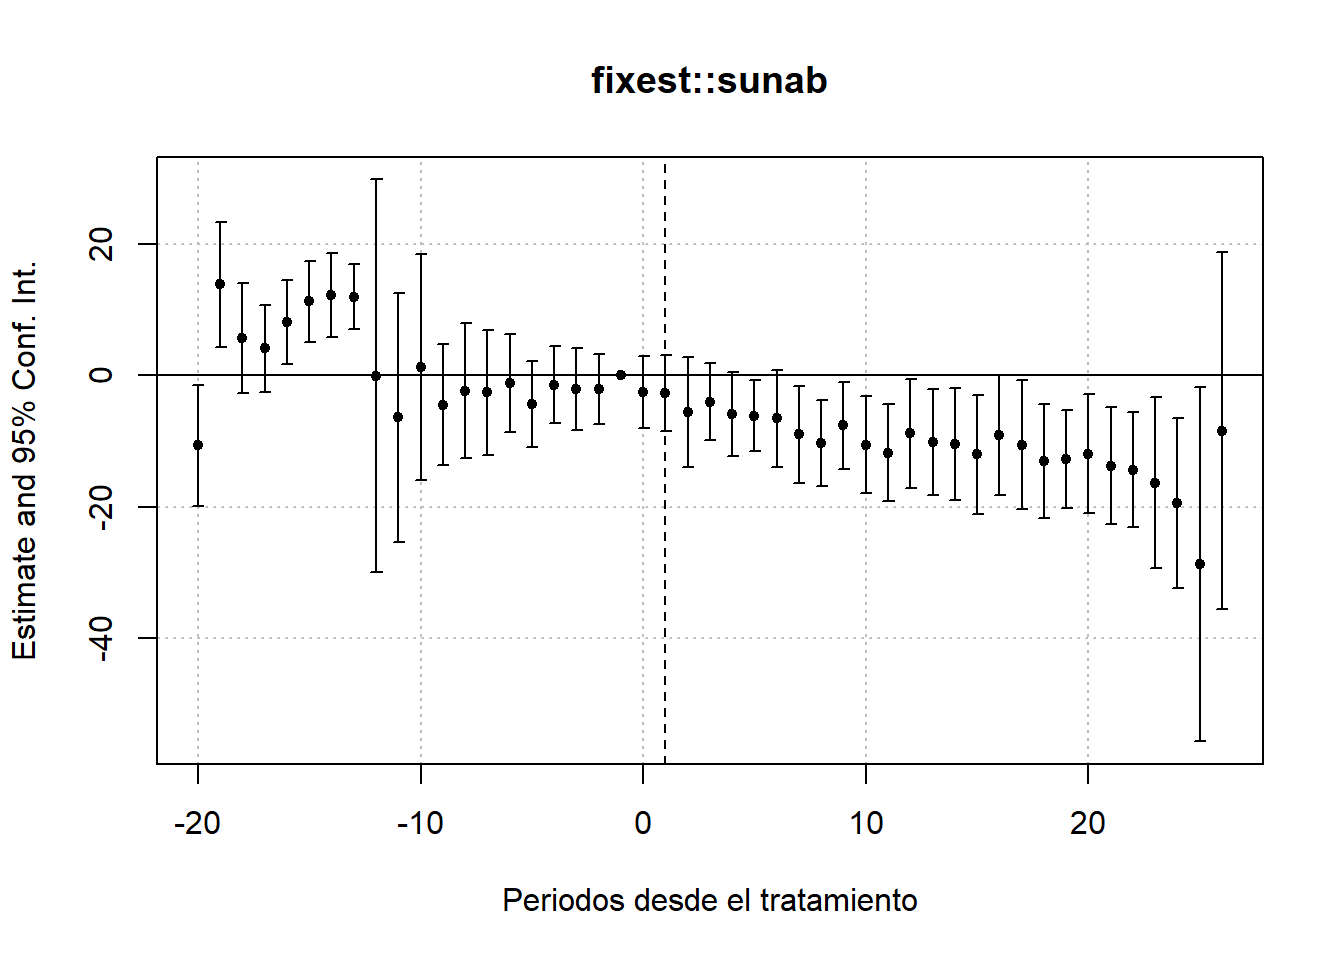
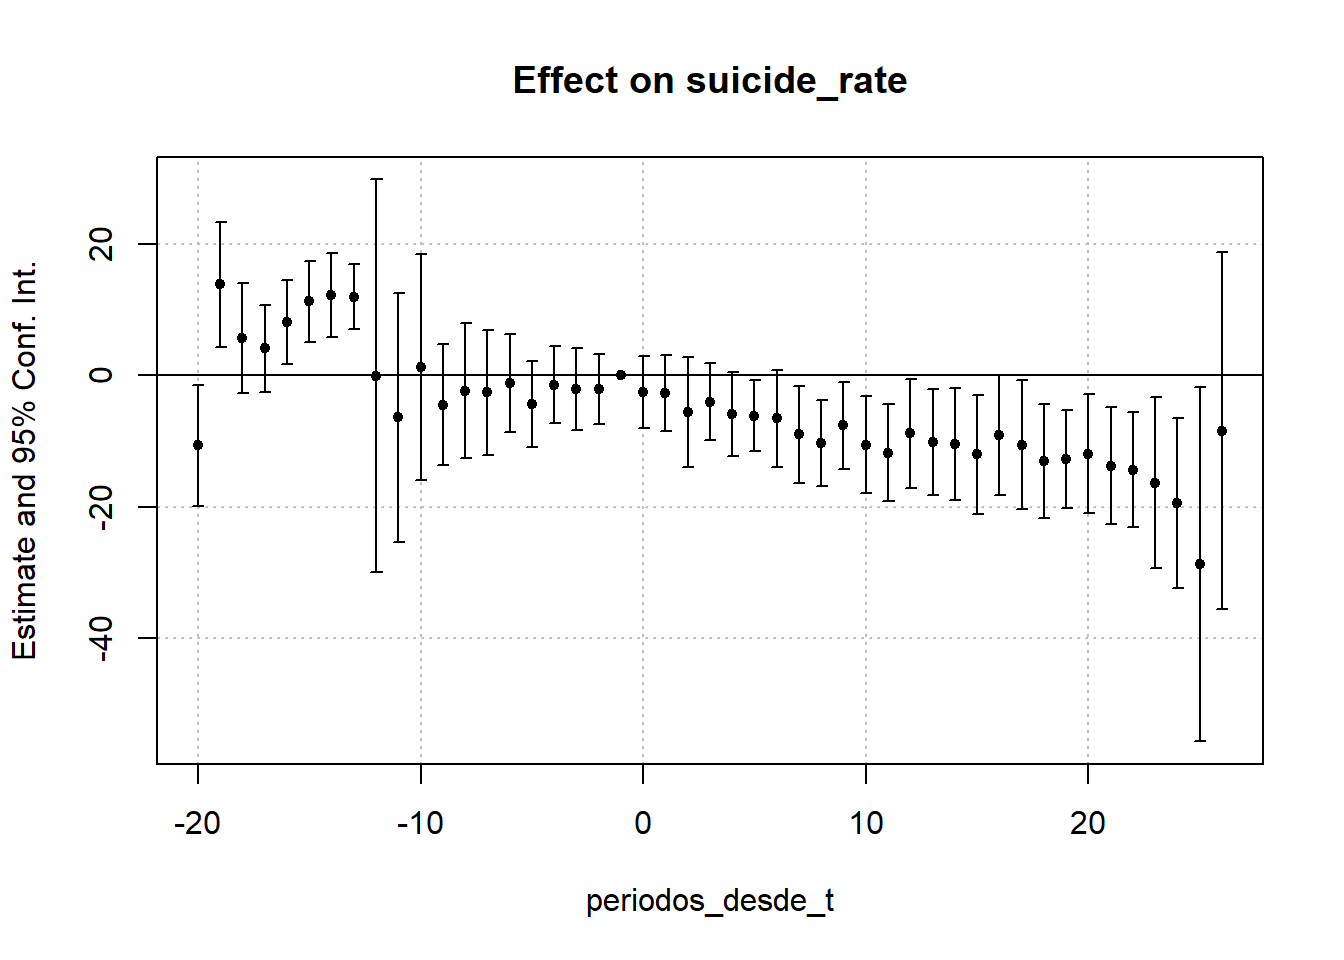
fix did en r

Changed region(s): [[0.375, 0.9062, 0.6875, 0.9688], [0.375, 0.0625, 0.6875, 0.125]]

diff --git a/content/notas/diferencia_en_diferencias_en_R.html b/content/notas/diferencia_en_diferencias_en_R.html
@@ -8,8 +8,8 @@ toc: false
 
 
 
-<div id="divorcio-unilateral" class="section level1">
-<h1>Divorcio unilateral</h1>
+<div id="divorcio-unilateral" class="section level2">
+<h2>Divorcio unilateral</h2>
 <p><a href="/notas/lab_did.R">Script de esta sesión</a></p>
 <p>Stevenson, B., &amp; Wolfers, J. (2006)<a href="#fn1" class="footnote-ref" id="fnref1"><sup>1</sup></a> estudian los efectos de la introducción de leyes que permiten el divorcio <em>unilateral</em>. La librería <em>bacondecomp</em> incluye los datos usados en dicho artículo. Usaremos los datos de 1964 a 1996 para mostrar cómo impactan las leyes de <em>divorcio express</em> (<strong>unilateral</strong>) a la tasa de suicidios en mujeres.</p>
 <p>Los datos que usaremos son:</p>
@@ -30,8 +30,8 @@ nos permite explorar datos de panel. Esta librería puede ser muy útil para sus
        abstract = &quot;Datos tomados de Stevenson &amp; Wolfers (2006)&quot;)</code></pre>
 <p>Es claro que estos datos corresponden a un caso en el que el tratamiento se asigna de forma <em>escalonada</em> a lo largo del tiempo.</p>
 </div>
-<div id="did-hasta-antes-de-goodman-bacon" class="section level1">
-<h1>DID hasta antes de Goodman-Bacon</h1>
+<div id="did-hasta-antes-de-goodman-bacon" class="section level2">
+<h2>DID hasta antes de Goodman-Bacon</h2>
 <p>Como hemos visto, hasta hace no mucho se asumía que un estimador de efectos fijos (TWFE) operaba igual que en la versión 2x2 del diseño de DID, en cuyo caso, estimaríamos la siguiente ecuación:</p>
 <p><span class="math display">\[\begin{aligned}
 y_{st}=\alpha+\delta_{DID}UNILATERAL_{st}+\beta_{AK} S_{AK}+\ldots+\beta_{WY}S_{WY}+\\
@@ -69,7 +69,8 @@ summary(modelo1)</code></pre>
 ## F-statistic(full model):41.34 on 81 and 1499 DF, p-value: &lt; 2.2e-16 
 ## F-statistic(proj model): 6.502 on 1 and 1499 DF, p-value: 0.01088</code></pre>
 <p>Una manera de <em>relajar</em> el supuesto de tendencias paralelas era controlar por <em>tendencias específicas</em> al incorporar la interacción de los efectos fijos individuales con una tendencia, es decir, con la variable tiempo en niveles:</p>
-<p><span class="math display">\[\begin{aligned}
+<p><span class="math display">\[
+\begin{aligned}
 y_{st}=\alpha+\delta_{DID}UNILATERAL_{st}+\beta_{AK} S_{AK}+\ldots+\beta_{WY}S_{WY}+\\
 +\gamma_{1967}A_{1967}+\ldots+\gamma_{1989}A_{1989}+\sum_k\theta_k(STATE_{ks}\times t)+\varepsilon_{st}
 \end{aligned}
@@ -141,8 +142,8 @@ summary(modelo2a)</code></pre>
 ## F-statistic(proj model): 0.3179 on 1 and 50 DF, p-value: 0.5754 
 ## *** Standard errors may be too high due to more than 2 groups and exactDOF=FALSE</code></pre>
 </div>
-<div id="descomposición-de-goodman-bacon" class="section level1">
-<h1>Descomposición de Goodman-Bacon</h1>
+<div id="descomposición-de-goodman-bacon" class="section level2">
+<h2>Descomposición de Goodman-Bacon</h2>
 <p>La descomposición de Goodman-Bacon (2021)<a href="#fn2" class="footnote-ref" id="fnref2"><sup>2</sup></a> parte el efecto estimado con el estimador de panel en una suma ponderada de todas las posibles comparaciones 2x2 en nuestro diseño. Aquí, recuperamos dichas ponderaciones:</p>
 <pre class="r"><code>df_bacon &lt;- bacon(suicide_rate ~ unilateral,
                   data = wd,
@@ -169,8 +170,8 @@ print(paste(&quot;Two-way FE estimate =&quot;, round(fit_tw$coefficients[2], 4))
   geom_hline(yintercept = round(fit_tw$coefficients[2], 4))</code></pre>
 <p><img src="/notas/diferencia_en_diferencias_en_R_files/figure-html/unnamed-chunk-8-1.png" width="672" /></p>
 </div>
-<div id="estimador-de-sun-y-abraham-2020" class="section level1">
-<h1>Estimador de Sun y Abraham (2020)</h1>
+<div id="estimador-de-sun-y-abraham-2020" class="section level2">
+<h2>Estimador de Sun y Abraham (2020)</h2>
 <p>A partir de la descomposición de Goodman-Bacon, la literatura de DID se ha encargado de desarrollar estimadores que tengan propiedades deseables en el contexto de tratamientos escalonados y heterogéneos. Esta literatura es amplia y muy viva.</p>
 <p>Una de estas propuestas es el estimador de Sun y Abraham (2020)<a href="#fn3" class="footnote-ref" id="fnref3"><sup>3</sup></a>.</p>
 <p>Definimos <em>periodos_desde_t</em> como el número de periodos desde el tratamiento (negativo antes del tratamiento):</p>
@@ -238,13 +239,14 @@ summary(modeloSA)</code></pre>
 ## RMSE: 9.14789     Adj. R2: 0.67575 
 ##                 Within R2: 0.246697</code></pre>
 <p>Tenemos una colección de coeficientes estimados con su correspondiente intervalo de confianza que podemos graficar usando <em>iplot</em>:</p>
-<pre><code>iplot(modeloSA)</code></pre>
+<pre class="r"><code>iplot(modeloSA)</code></pre>
+<p><img src="/notas/diferencia_en_diferencias_en_R_files/figure-html/unnamed-chunk-11-1.png" width="672" /></p>
 <p>Le podemos dar el formato que queramos:</p>
 <pre class="r"><code>modeloSA %&gt;% 
   iplot(main = &quot;fixest::sunab&quot;,
     xlab = &quot;Periodos desde el tratamiento&quot;,
     ref.line = 1)</code></pre>
-<p><img src="/notas/diferencia_en_diferencias_en_R_files/figure-html/unnamed-chunk-11-1.png" width="672" /></p>
+<p><img src="/notas/diferencia_en_diferencias_en_R_files/figure-html/unnamed-chunk-12-1.png" width="672" /></p>
 <p>Otro estimador que ha recibido atención recientemente es el propuesto por Callaway &amp; Sant’Anna (2021), que utiliza un <em>propensity score</em> para pesar comparaciones 2x2.</p>
 </div>
 <div class="footnotes footnotes-end-of-document">
